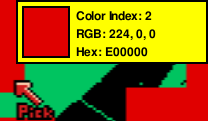
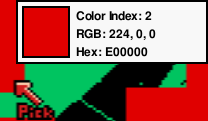
Edit new 2.2.1 docs

diff --git a/docs/tools/src/fill.md b/docs/tools/src/fill.md
@@ -31,12 +31,12 @@ Right-clicking the **Fill tool** <img src="t-fill.png" width="32"> or the lower-
 
 <img src="fill-defaut.png">
 
-Some buttons are ghosted until you select one of the 5 **Gradient** and most importantly a color which is already in a [range](../../menus/src/palette.md#range.). Select one of the grey color to be sure.
+Some buttons are ghosted until you select one of the 5 **Gradient** and most importantly a color which is already in a [range](../../menus/src/palette.md#range.). Select one of the gray color to be sure.
 The options in the requester are explained in the following paragraphs.
 
 ## Solid
 
-**Solid** fills with the current color with no added effects. If you paint or fill your shape using the left button, the shape is filled with the foreground color. If you paint or fill your shape using the right mouse button, it is filled with the background color (often black). It's the mode by default, if you never open **Fill Type** or used some basic Pixel Art program, you know it.
+**Solid** fills with the current color with no added effects. If you paint or fill your shape using the left button, the shape is filled with the foreground color. If you paint or fill your shape using the right mouse button, it is filled with the background color (often black). It's the mode by default, if you never open **Fill Type** or use a basic Pixel Art program, you've seen it.
 | ![solid fill](solid-fill-ex.png) |
 | :----: |
 | *Filled rectangle, filled circle, filled ellipse, filled polygon, and Fill tool.* |
@@ -112,7 +112,9 @@ Key: `SHIFT-F4`
 **Linear fill** paints the gradient in a line, **according to the angle defined**, with an even distribution without regard to the shape of the object.
 
 ![](gradient-linear-fill.png)
-Introduced in PydPainter 2.1.1, the 2 square-shaped arrows above allows you to quickly rotate by 45° clockwise or anticlockwise. But you can rotate freely by 1° using the triangular arrow.
+
+Introduced in PyDPainter 2.2.1, the 2 square-shaped arrows above allow you to quickly rotate by 45° clockwise or counterclockwise. Also you can rotate freely by dragging the triangular arrow.
+
 Key: `SHIFT-F5`
 ### Horizontal Line
 **Horizontal Line** fill paints the gradient left-to-right adjusting the gradient so that it follows the contours of the shape being filled.
@@ -130,13 +132,15 @@ Key: `SHIFT-F6`
 Key: `SHIFT-F7`
 
 ## Gradient direction
-**New in PydPainter 2.1.0**: right to the Dither bar, there is an new black arrow that toggles the gradient orientation. Not the gradient up and down direction, but the order of the colors inside a range.
+**New in PyDPainter 2.1.0**: right to the Dither bar, there is an new black arrow that toggles the order of the order of the colors inside a range.
+
 ![direction](gradient-direction.png)
-This orientation is first defined by the color order in the **Palette** (`P`). It can now be reversed with a click directly from here. If you have a light to dark grey range in the Palette, and want to use a dark to light grey gradient, just click that arrow.
+
+This direction is first defined by the color order in the **Palette** (`P`). It can now be reversed with a click directly from here. If you have a light to dark gray range in the Palette, and want to use a dark to light gray gradient, just click that arrow.
 
 ## Dither
 
-Dithering is the blending of pixels within a **Range** defined in Palette. Usually, it's a gradient, but it doesn't have to be. It can be ordered dithering or a random dithering setting from none to increasingly blended. **PyDPainter 2.2.1** introduce a lot of **new dithering patterns**.
+Dithering is the blending of pixels within a **Range** defined in Palette. Usually, it's a gradient, but it doesn't have to be. It can be ordered dithering or a random dithering setting from none to increasingly blended. **PyDPainter 2.2.1** introduces a lot of **new dithering patterns**.
 
 ### No dithering
 
@@ -162,13 +166,15 @@ Max dithering is 20. The gradient is barely recognizable. Can be used as a noise
 
 ### Check
 ![](dither-check.png)
+
 A basic checkerboard pattern.
 
 ### Dithering slider on all new patterns.
-The Dither slider adjust the pattern size beetween the colors. 0 is always no dithering,1 the minimum, 20 the max. 10 is the new default. It is a relative value, the real pattern is drawn when you fill an actual shape. So a small shape will not render the same gradient as the whole screen.
+The Dither slider adjust the pattern size between the colors. 0 is always no dithering,1 the minimum, 20 the max. 10 is the new default. It is a relative value, the real pattern is drawn when you fill an actual shape. So a small shape will not render the same gradient as the whole screen.
 ### 2x2
 ![](dither-2x2.png)
-A elegant bayer diffusion.
+
+A elegant Bayer diffusion.
 
 ### 4x4
 
@@ -177,28 +183,34 @@ It's another legacy from Deluxe Paint. If you search for the same pattern as DPa
 ![](dither-4x4.png)
 ### 8x8
 
-The more complex Bayer diffusion 8x8 pattern. It need some place to draw it's pixels pattern entirely.
+The more complex Bayer diffusion 8x8 pattern. It needs a large area to draw its pixel pattern entirely.
+
 ![](dither-8x8.png)
 ### Halftone
 
-A well-know and recognizable pattern from the printing industry. May require some place to be nice-looking. Produce nice aquatic effect when stretched out to large Dither value. *Experiment !*
+A well-known and recognizable pattern from the printing industry. May require a large area to be nice-looking. Produce nice aquatic effect when stretched out to large Dither value. *Experiment !*
+
 ![](dither-htone.png)
 
 ### VertBar
-May look strange. It's a pattern designed for vertical gradient. So click to Linear Fill and choose a 90° or 270° angle. Of course, you can use it as a creative way with other fill or angle, if you like theses saw shapes.
+May look strange. It's a pattern designed for a horizontal gradient. So click to Linear Fill and choose a 90° or 270° angle. Of course, you can use it as a creative way with other fill or angle, if you like these sawtooth shapes.
+
 ![](dither-vertbar.png)
 
 ### HorizBar
-May look strange. It's a pattern designed for horizontal gradient, like a sky. So click to Linear Fill and choose a 0° or 180° angle. Of course, you can use it in a creative way with other fill or angle, if you like theses saw shapes.
+May look strange. It's a pattern designed for a vertical gradient, like a sky. So click to Linear Fill and choose a 0° or 180° angle. Of course, you can use it in a creative way with other fill or angle, if you like these sawtooth shapes.
+
 ![](dither-horizbar.png)
+
 *Tip: Set **Dither** value at 2 to produce a basic line alternate with Vert or Horiz Bar which is interesting in any Gradient type.*
+
 ![](bar-2-ex.png)
 ## Status bar
 When you return to the painting screen after choosing a fill type :
 - the current **Gradient** and its orientation,
 - and it's dithering pattern or
 - current brush fill, if **Pattern** or **Wrap** are selected
-- **AntiAlias** or **Smooth** (**AA** or **SM**) type if choosen
+- **AntiAlias** or **Smooth** (**AA** or **SM**) type if chosen
 are shown in the Color Fill box in the menu bar:
 
 | ![](fill-status.png) |

diff --git a/docs/tools/src/toolbox.md b/docs/tools/src/toolbox.md
@@ -54,7 +54,6 @@ the capital letter of which brings up the variant or the options.
     - [Pick color](#pick-color)
     - [Palette](#palette)
   - [Colors](#colors)
-          - [Documentation written by Stephane Anquetil](#documentation-written-by-stephane-anquetil)
 
 ## Default brushes
 
@@ -545,26 +544,26 @@ All drawing tools can use this color to ERASE or as a secondary color using the 
 That means the [Brush](#brush-tool) tool use this black as transparency by default. It's not mandatory, you can SELECT another color RIGHT clicking anywhere on the palette below. Pink can be the transparency color, preserving all black pixel to be transparent in a new brush grabbing.
 
 ### Pick color
-You can pick any color from the canvas using a left click on the Color Swatch (either the dot or around). While using a drawing tool, you'd better learn this short key: `,`. We add the optional short-keys `Ctrl` to pick a color everywhere for the convenience of PhotoShop and tablets users. **Activate CTRL Pick Override** in  [Prefs menu](../../menus/src/prefs.md) to use it.
-The mouse pointer change to an pipette with a information bubble displaying the current color rank and RGB valeurs in Hex.
+You can pick any color from the canvas using a left click on the Color Swatch (either the dot or the are around it). While using a drawing tool, you'd better learn this short key: `,`. There is also the optional short-key `Ctrl` to pick a color everywhere for the convenience of PhotoShop and tablets users. **Activate CTRL Pick Override** in  [Prefs menu](../../menus/src/prefs.md) to use it.
+The mouse pointer changes to a pipette with a information bubble displaying the current color index and RGB values.
 
 ![](pipette.png)
 
 - LEFT click to define the current underlying color as Foreground.
 - RIGHT click to define the current underlying color as Background.
 
-*Note: it does not change the color palette. If you need to change the color, use Palette.*
+*Note: This does not modify the color palette - it only chooses which color from the palette you paint with. If you need to modify a color in the palette, use Palette (below).*
 
 ### Palette
-You have quick access to [Palette](../../menus/src/palette.md) editor, using either of thoses method belows:
+You have quick access to [Palette](../../menus/src/palette.md) editor, using either of the methods below:
 - RIGHT click on the foreground or background color on the Color Swatch.
 It open the **Palette** windows.
 - hit `P`
 
 ## Colors
-The colors are ranked from 0 to the max colors you define in the [Chosse Screen  Fromat requester](../../menus/src/screenformat.md). A LEFT click on any color select the color as Foreground. A RIGHT click select color as Background. A yellow bubble can display additionnal information, like rank and RGB values if Help bubbles are ON.
+The colors are numbered from 0 to the max colors you define in the [Choose Screen  Format requester](../../menus/src/screenformat.md). A LEFT click on any color select the color as Foreground. A RIGHT click select color as Background. The bubble can display additional information, like index and RGB values.
 
-It display 32 colors slots a time. If you're using more, use the arrows bellow to browse through more colors (from A to H if 256 colors.)
+32 colors slots are displayed at a time. If you're using more, use the arrows bellow to browse through more colors (from A to H if 256 colors.)
 ![](color-browse.png)
 
 ###### Documentation written by Stephane Anquetil

diff --git a/docs/menus/src/prefs.md b/docs/menus/src/prefs.md
@@ -14,13 +14,12 @@ An active setting is preceded by a checkmark &check;.
   - [Force 1:1 Pixels](#force-11-pixels)
   - [True Symmetry](#true-symmetry)
   - [SysFileDialog](#sysfiledialog)
-  - [CTRL Pick Overide](#ctrl-pick-overide)
+  - [CTRL Pick Override](#ctrl-pick-override)
   - [Coords](#coords)
     - [Show](#show)
     - [Flip](#flip)
     - [1-based](#1-based)
   - [Save Config](#save-config)
-          - [Documentation written by Stephane Anquetil](#documentation-written-by-stephane-anquetil)
 
 ## AutoTransp
 When this setting is on, PyDPainter ignores the current palette background color when grabbing a brush and uses instead the color of the 4 points at the corner of the brush capture rectangle.
@@ -74,8 +73,8 @@ By default, PyDPainter uses its own file requester, inspired by Deluxe Paint. If
 *Open Picture with the system file dialog on Linux*
 
 *Note: Because full screen mode (`F11`) takes over the screen, the system file dialog window can easily be lost behind the PyDPainter window with no easy way to get it back. Therefore, the SysFileDialog option will be ignored in full screen mode.*
-## CTRL Pick Overide
-Overide `CTRL` short-keys (both side) to use the new [Color Picker](../../tools/src/toolbox.md#pick-color) with `CTRL`  and `ALT` keys. This feature was requested by some users who are accustomed to using Photoshop. If activated, it means you loose the legacy **DPaint** features : "leave trails" on Line, Curves, Rectangle, Circle tools and to slow down Airbrush.
+## CTRL Pick Override
+Override `CTRL` keys (left or right) to use the new [Color Picker](../../tools/src/toolbox.md#pick-color) with the `CTRL` key. This feature is similar to the dropper tool in Photoshop or Gimp. If activated, it means you loose the legacy **Deluxe Paint** features: "leave trails" on Line, Curves, Rectangle, Circle tools and also reducing the spray speed on the Airbrush.
 
 ## Coords
 Displays mouse x and y coordinates in the menu bar. When drawing rectangles, circles, ellipses and brushes selection, the coordinates are replaced by the distance in pixels between the point of origin and your mouse position.  

diff --git a/docs/tools/src/brushtrails.md b/docs/tools/src/brushtrails.md
@@ -12,7 +12,6 @@
   - [Size and Rotate](#size-and-rotate)
     - [Example](#example)
     - [Tutorial](#tutorial)
-          - [Documentation written by Stephane Anquetil](#documentation-written-by-stephane-anquetil)
 
 | ![New Brush Trails](brushtrails.png) |
 | :-----: |
@@ -27,6 +26,7 @@ Number spinners: Click the up or down arrows to increment or decrement values. H
 Let's have a quick look of the four buttons : **Continuous, Every Nth dot, Airbrush** and **N Total**.
 
 ![](Spacing-examples.png)
+
 From left to right, examples of the 4 default settings, with **Circle**, **Rectangle** and **Line** tools, each with a different brush (indicated in red).
 
 ## Continuous
@@ -67,8 +67,7 @@ You can set the new **Size** and **Rotation** parameters to quickly add variety,
 Set **Size End** to 300% will draw your brush up to 3 times larger.
 | ![](size-100-300.png) |
 | :-----: |
-| Every 8th dot, Continuous and Airbrush .5 examples within a Line
-using defaults brush round 3, square brush 2 and the small 3 dots.|
+| Every 8th dot, Continuous and Airbrush .5 examples within a Line<br>using defaults brush round 3, square brush 2 and the small 3 dots.|
 
 ## N Total
 Defines the total number of times the current brush will be copied along the path. For example, if you draw a circle with a **total spacing** of 14 with a star-shaped brush, this will make a round of 14 stars.

diff --git a/docs/tutorials/src/animpainting/animpainting.md b/docs/tutorials/src/animpainting/animpainting.md
@@ -143,7 +143,8 @@ This means that our trajectory will be drawn with 20 "points" / balls and theref
 5. Play the animation!
 
 ### Ease In and Out
-You can now use the new [Brush Trails](../../../tools/src/brushtrails.md#ease-inout) option to **Ease In** or **Out** the movement. For examples, a **Ease In** of **2** will slower the ball speed at the beginning and make it accelerating.
+You can now use the new [Brush Trails](../../../tools/src/brushtrails.md#ease-inout) option to **Ease In** or **Out** the movement. For example, a **Ease In** of **2** will start the ball slowly at the beginning and make it accelerate at the end.
+
 ![alt text](ease-ex-1.gif)
 
 Feel free to erase and try again to experiment.

diff --git a/docs/menus/src/palette.md b/docs/menus/src/palette.md
@@ -71,7 +71,7 @@ This field accepts direct typing of these values.
 *If you want to see anytime the hexadecimal value of a color, simply stop the mouse on the color, and the #hex and RGB values will be displayed at the bottom of the yellow tooltip.*
 
 ## Pasting color values
-PyDPainter 2.2.1 allows the clipboard paste to color palette. It works for hex numbers and ignores extra characters. It also works with 6 hex digits for 24 bit color (ex: #FFCC06 or FFCC06) or 3 hex digits for 12 bit color (ex: B81). See [this page](https://borderleft.com/toolbox/hex/) for visual reference. You don't have to be in the color text field for `CTRL-v` and `SHIFT-INSERT` to work.
+PyDPainter allows the clipboard to paste to the color palette. It works for hex numbers and ignores extra characters. It also works with 6 hex digits for 24 bit color (ex: #FFCC06 or FFCC06) or 3 hex digits for 12 bit color (ex: B81). See [this page](https://borderleft.com/toolbox/hex/) for visual reference. You don't have to be in the color text field for `CTRL-v` and `SHIFT-INSERT` to work.
 
 ## RGB Pick
 ![RGB](rgb-pick-button.png)